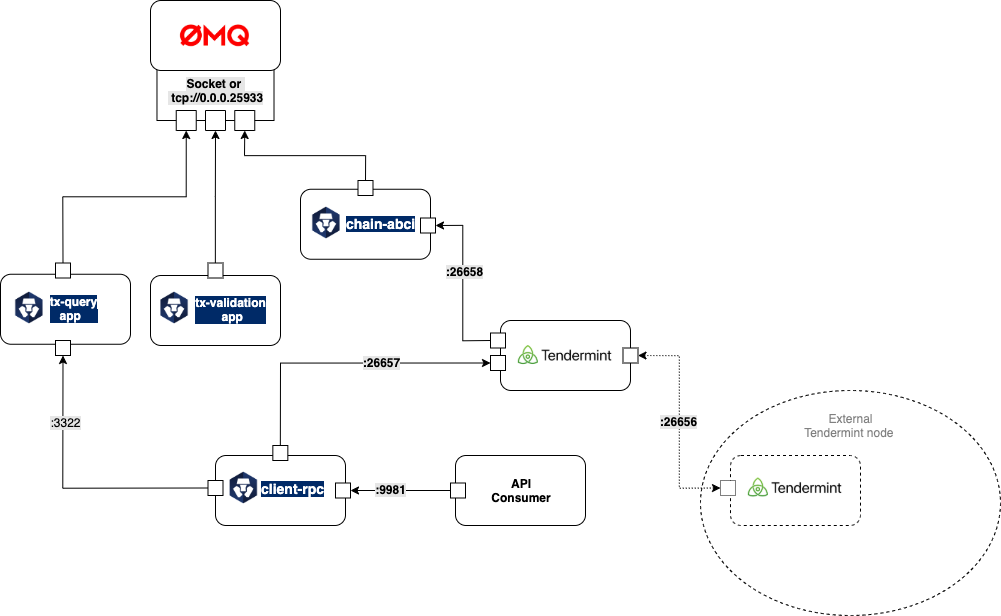
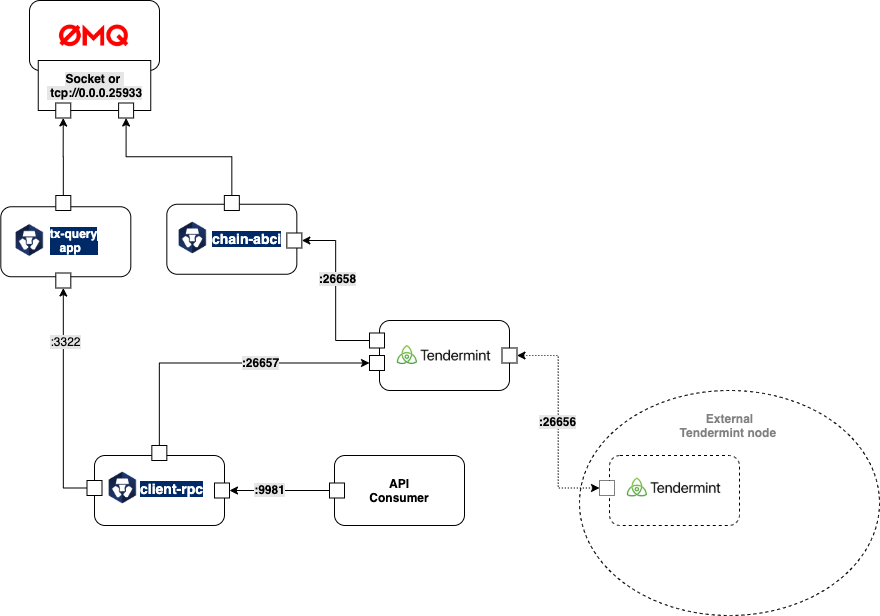
Problem (Fixes #63): missing "Send your first transaction" link #101
Solution:

Added links to the new ./send_your_first_transaction

diff --git a/docs/getting-started/README.md b/docs/getting-started/README.md
@@ -31,7 +31,6 @@ At the end of this getting-start document, you will be running five components:
 - `chain-abci` as main chain process.
 - `client-rpc` as rpc server for client's interactions.
 - `tendermint` for consensus.
-- `tx-validation-app` for enclave transaction validation.
 - `tx-query-app` allows semi-trusted client querying of sealed tx payloads.
 
 ## Azure VM creation
@@ -76,10 +75,7 @@ It will take you serveral mins, and check the binary files share object files in
 ```
 $ ls target/debug/
 
-chain-abci client-rpc client-cli tx-query-app tx-validation-app
-libtx_validation_enclave.so libtx_query_enclave.so
-tx_query_enclave.signed.so tx_validation_enclave.signed.so
-...
+chain-abci client-rpc client-cli tx-query-app ...
 ```
 
 #### 2. Build the docker image with local binary files using following command:
@@ -180,6 +176,5 @@ $ make run
 If no error Check all containers 
 
 
-## Congratulations
-Congratulations, now the environment to run Crypto.com Chain is all set. Let's move
-on to start your first transaction.
+### Congratulations
+Congratulations, now the environment to run Crypto.com Chain is all set. Let's on on and start [sending your first transaction](./send_your_first_transaction).
